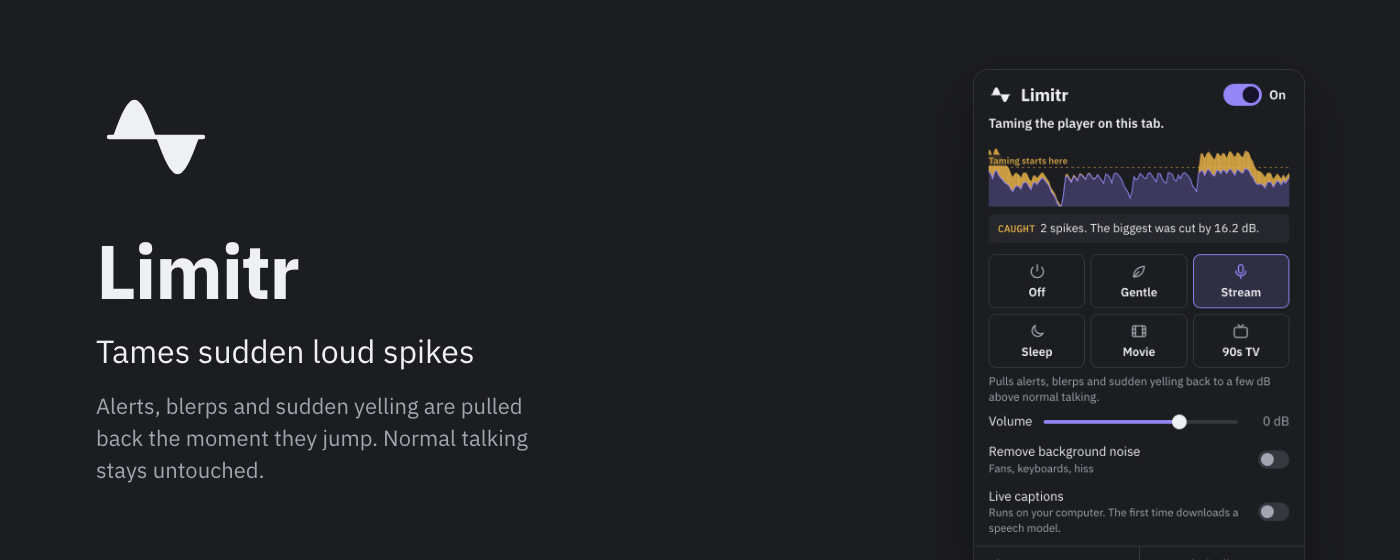
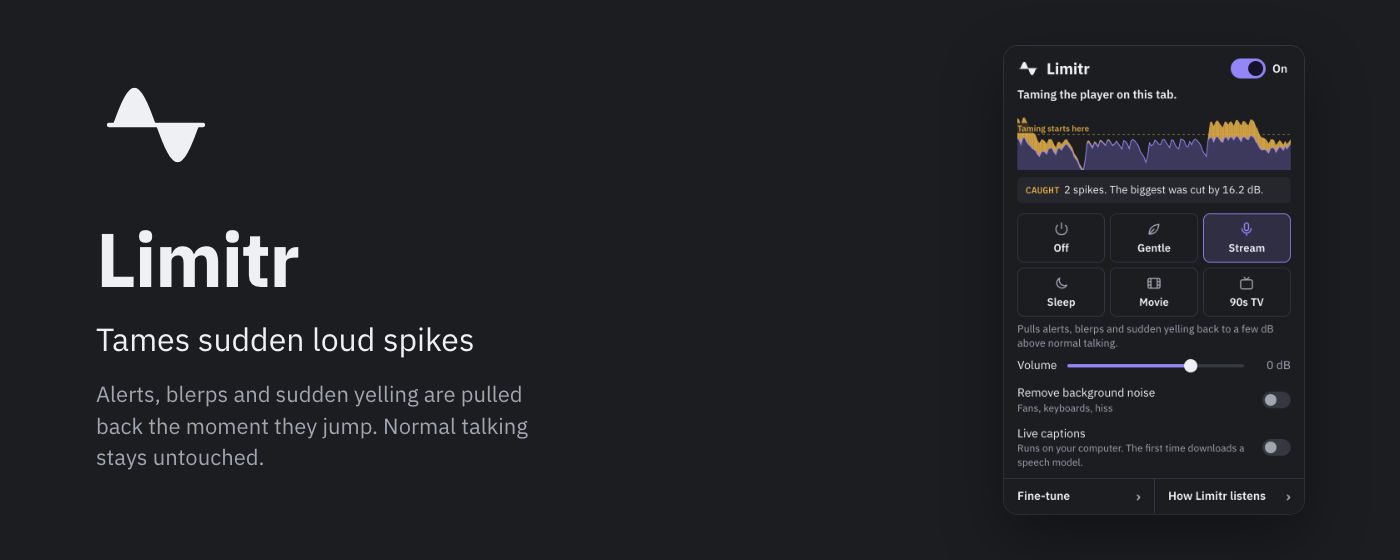
Fixes from the final review
- Saved-preset chips re-fit when the main screen is shown again; a Fine-tune
  change re-rendered them while hidden, losing the "+N" collapse.
- Firefox no longer turns the icon red for unreachable players: without
  Whole-tab capture there is nothing the user can do about them.
- Frames report their first change immediately and send an all-clear on
  pagehide, so an ad iframe removed right after it ends can't leave the tab
  red; back/forward-cached pages re-report on pageshow.
- The captions chip shows what Auto picked ("Auto: Türkçe").
- The store renderer refuses popup images cut off by the artwork's edge;
  the marquee tile now shows the whole popup.

Claude-Session: https://claude.ai/code/session_014gtQrAT2pJGoeVdj8UYkMA

diff --git a/tests/run-extension-tests.js b/tests/run-extension-tests.js
@@ -96,6 +96,17 @@ const sleep = ms => new Promise(resolve => setTimeout(resolve, ms));
       res.end('<!DOCTYPE html><html><body><button id="play">Play</button><audio id="a" src="/stream.wav" loop></audio>' +
         '<script>document.getElementById("play").onclick = () => document.getElementById("a").play();</script></body></html>');
     },
+    '/ad-host.html': (req, res) => {
+      res.writeHead(200, { 'Content-Type': 'text/html' });
+      res.end('<!DOCTYPE html><html><body><iframe id="ad" src="/ad-frame.html" width="300" height="80"></iframe></body></html>');
+    },
+    '/ad-frame.html': (req, res) => {
+      res.writeHead(200, { 'Content-Type': 'text/html' });
+      res.end(`<!DOCTYPE html><html><body><button id="play">Play</button>
+<audio id="remote" src="http://localhost:${port}/tone.wav" loop></audio>
+<script>document.getElementById('play').onclick = () => document.getElementById('remote').play();</script>
+</body></html>`);
+    },
     '/remote-only.html': (req, res) => {
       res.writeHead(200, { 'Content-Type': 'text/html' });
       res.end(`<!DOCTYPE html><html><body><button id="play">Play</button>
@@ -287,6 +298,23 @@ const sleep = ms => new Promise(resolve => setTimeout(resolve, ms));
     check('turning Limitr off: off (gray)', (await iconState(tabId)) === 'off', await iconState(tabId));
     await worker.evaluate(() => chrome.storage.local.set({ limitrEnabled: true }));
     await sleep(800);
+    // An ad in an iframe: plays unreachable audio, then ends and is removed straight away
+    const adTab = await context.newPage();
+    await adTab.goto(`http://127.0.0.1:${port}/ad-host.html`);
+    await sleep(500);
+    const adId = await worker.evaluate(async () => (await chrome.tabs.query({ url: 'http://127.0.0.1/ad-host.html' }))[0].id);
+    await adTab.frameLocator('#ad').locator('#play').click();
+    await sleep(1500);
+    check('unreachable ad playing in an iframe: red', (await iconState(adId)) === 'attention', await iconState(adId));
+    await adTab.evaluate(() => {
+      const frame = document.getElementById('ad');
+      frame.contentWindow.document.getElementById('remote').pause();
+      frame.remove();
+    });
+    await sleep(1000);
+    check('ad iframe removed right after it ends: red clears', (await iconState(adId)) === 'on', await iconState(adId));
+    await adTab.close();
+
     const newTab = await context.newPage();
     await newTab.goto('chrome://newtab/').catch(() => {});
     await sleep(800);
@@ -363,6 +391,19 @@ const sleep = ms => new Promise(resolve => setTimeout(resolve, ms));
     check('saved presets stay on one line', layout.chipOverflow !== null && layout.chipOverflow <= 1, layout.chipOverflow);
     check('extra saved presets collapse into "+N"', layout.more);
     check('no horizontal overflow with long preset names', layout.docWidth <= 360, layout.docWidth);
+    // Changing a setting re-renders the chips while the main screen is hidden; coming back must re-fit them
+    await popup.click('.nav-row[data-open="finetune"]');
+    await popup.evaluate(() => {
+      const slider = document.getElementById('ctl-guardHeadroom');
+      slider.value = 7;
+      slider.dispatchEvent(new Event('input', { bubbles: true }));
+    });
+    await sleep(300);
+    await popup.click('[data-screen="finetune"] .back');
+    await sleep(300);
+    layout = await mainLayout();
+    check('after a Fine-tune change, saved presets still collapse into "+N"', layout.more && layout.chipOverflow <= 1,
+      `more=${layout.more}, overflow=${layout.chipOverflow}`);
     await worker.evaluate(() => chrome.storage.local.remove('limitrUserPresets'));
 
     console.log('\nSecondary screens');
@@ -449,6 +490,11 @@ const sleep = ms => new Promise(resolve => setTimeout(resolve, ms));
     await sleep(300);
     check('the chip opens the captions screen', await visible('[data-screen="captions"]'));
     check('Language and Translate to are on it', (await visible('#captionsLanguage')) && (await visible('#captionsTranslate')));
+    await popup.selectOption('#captionsLanguage', 'auto');
+    await worker.evaluate(id => chrome.runtime.sendMessage({ action: 'transcription-status', tabId: id, status: 'language', language: 'tr' }), tabId);
+    await sleep(300);
+    const chipText = await popup.textContent('#captionsChip');
+    check('Auto shows what it picked on the chip', chipText === 'Auto: T\u00fcrk\u00e7e', chipText);
     await worker.evaluate(id => chrome.runtime.sendMessage({
       action: 'transcription-result', tabId: id,
       result: { text: 'Herkese iyi ak\u015famlar', translation: 'Good evening everyone' }

diff --git a/popup.js b/popup.js
@@ -213,17 +213,26 @@ function renderPresetChips() {
   more.hidden = true;
   more.addEventListener('click', () => openScreen('finetune', 'savedPresets'));
   row.append(more);
+  requestAnimationFrame(fitPresetChips);
+}
 
-  requestAnimationFrame(() => {
-    let hiddenCount = 0;
-    for (let i = chips.length - 1; i >= 0 && row.scrollWidth > row.clientWidth; i--) {
-      chips[i].hidden = true;
-      hiddenCount++;
-      more.hidden = false;
-      more.textContent = `+${hiddenCount}`;
-      more.setAttribute('aria-label', `${hiddenCount} more saved presets`);
-    }
-  });
+// Hides chips from the end until the row fits, behind a "+N" chip. Only measurable while the main
+// screen is shown, so showScreen('main') calls it again.
+function fitPresetChips() {
+  const row = $('presetChips');
+  if (row.hidden || !row.clientWidth) return;
+  const chips = [...row.querySelectorAll('.chip:not(.more)')];
+  const more = row.querySelector('.chip.more');
+  chips.forEach(chip => { chip.hidden = false; });
+  more.hidden = true;
+  let hiddenCount = 0;
+  for (let i = chips.length - 1; i >= 0 && row.scrollWidth > row.clientWidth; i--) {
+    chips[i].hidden = true;
+    hiddenCount++;
+    more.hidden = false;
+    more.textContent = `+${hiddenCount}`;
+    more.setAttribute('aria-label', `${hiddenCount} more saved presets`);
+  }
 }
 
 // Which preset Fine-tune is adjusting, shown in its live strip
@@ -925,7 +934,10 @@ function renderCaptions(note) {
   $('transcript').hidden = state.captions !== 'active';
   const chip = $('captionsChip');
   chip.hidden = !toggle.checked;
-  chip.textContent = LANGUAGE_NAMES[state.captionPrefs.language] || 'Auto';
+  const auto = state.captionPrefs.language === 'auto';
+  chip.textContent = auto
+    ? (state.captionsDetected ? `Auto: ${LANGUAGE_NAMES[state.captionsDetected] || state.captionsDetected}` : 'Auto')
+    : LANGUAGE_NAMES[state.captionPrefs.language] || state.captionPrefs.language;
   chip.setAttribute('aria-label', `Caption settings: ${chip.textContent}`);
   if (note) $('captionsNote').textContent = note;
 }
@@ -952,7 +964,10 @@ function buildCaptionOptions() {
   language.value = state.captionPrefs.language;
   translate.value = targets.some(([c]) => c === state.captionPrefs.translateTo) ? state.captionPrefs.translateTo : '';
 
-  language.addEventListener('change', () => saveCaptionPrefs({ language: language.value }));
+  language.addEventListener('change', () => {
+    saveCaptionPrefs({ language: language.value });
+    renderCaptions();
+  });
   translate.addEventListener('change', () => {
     saveCaptionPrefs({ translateTo: translate.value });
     // The change event carries the click, which a first-time translator download needs
@@ -1027,6 +1042,7 @@ async function refreshCaptions() {
   if (status?.active) state.captions = 'active';
   else if (status?.loading) state.captions = 'loading';
   const detected = status?.session?.language;
+  if (detected) state.captionsDetected = detected;
   renderCaptions(status?.active && detected && state.captionPrefs.language === 'auto'
     ? `Listening in ${LANGUAGE_NAMES[detected] || detected}.`
     : undefined);
@@ -1067,6 +1083,7 @@ chrome.runtime.onMessage.addListener((message) => {
     else if (message.status === 'error') state.captions = 'error';
     else if (message.status === 'stopped') state.captions = 'off';
     if (message.status === 'language') {
+      state.captionsDetected = message.language;
       renderCaptions(`Listening in ${LANGUAGE_NAMES[message.language] || message.language}.`);
     } else if (message.status === 'translation-download') {
       const button = $('translationDownload');
@@ -1109,6 +1126,7 @@ function showScreen(name) {
     drawEqCurve();
     drawTraces();
   }
+  if (name === 'main') fitPresetChips();
   const focusTarget = name === 'main' ? $('power') : current.querySelector('.back');
   if (focusTarget) focusTarget.focus();
 }

diff --git a/tests/run-firefox-tests.js b/tests/run-firefox-tests.js
@@ -85,6 +85,9 @@ const sleep = ms => new Promise(resolve => setTimeout(resolve, ms));
       <audio id="a-en" src="/en.wav" loop></audio><audio id="a-tr" src="/tr.wav" loop></audio>
       <script>for (const l of ['en', 'tr']) document.getElementById(l).onclick = () => {
         document.querySelectorAll('audio').forEach(a => a.pause()); document.getElementById('a-' + l).play(); };</script></body></html>`),
+    '/remote-only.html': html(() => `<!DOCTYPE html><html><body><button id="play">Play</button>
+      <audio id="remote" src="http://localhost:${port}/tone.wav" loop></audio>
+      <script>play.onclick = () => remote.play();</script></body></html>`),
     '/frame.html': html(() => `<!DOCTYPE html><html><body><button id="play">Play</button>
       <audio id="framed" src="/tone.wav" loop></audio>
       <script>play.onclick = () => framed.play();</script></body></html>`)
@@ -116,7 +119,7 @@ const sleep = ms => new Promise(resolve => setTimeout(resolve, ms));
     await sleep(800);
 
     // Extension APIs are reached through the test agent (BiDi can't open moz-extension pages)
-    const ask = query => tab.evaluate(q => new Promise((resolve, reject) => {
+    const askIn = (page, query) => page.evaluate(q => new Promise((resolve, reject) => {
       const id = Math.random().toString(36).slice(2);
       const onReply = (event) => {
         const reply = event.data && event.data.limitrTestReply;
@@ -127,6 +130,7 @@ const sleep = ms => new Promise(resolve => setTimeout(resolve, ms));
       window.addEventListener('message', onReply);
       window.postMessage({ limitrTestQuery: { id, query: q } }, '*');
     }), query);
+    const ask = query => askIn(tab, query);
     const frameStatus = () => ask({ op: 'frame-status' });
     const meters = frameId => ask({ op: 'meters', frameId });
 
@@ -162,6 +166,16 @@ const sleep = ms => new Promise(resolve => setTimeout(resolve, ms));
     await sleep(1000);
     m = await meters(0);
     check('turning it back on resumes processing', m && m.inDb > -60, m && `in ${m.inDb?.toFixed(1)}`);
+
+    console.log('\nToolbar icon');
+    const remoteTab = await browser.newPage();
+    await remoteTab.goto(`http://127.0.0.1:${port}/remote-only.html`);
+    await sleep(800);
+    await remoteTab.click('#play');
+    await sleep(1500);
+    const remoteIcon = await askIn(remoteTab, { op: 'icon-state' });
+    check('unreachable player in Firefox: not red (Whole tab is not available here)', remoteIcon === 'on', remoteIcon);
+    await remoteTab.close();
 
     console.log('\nPopup');
     const popup = await ask({ op: 'popup' });

diff --git a/content-bridge.js b/content-bridge.js
@@ -50,25 +50,51 @@
     });
   }
 
-  // Tells the background what this frame is doing so it can colour the toolbar icon.
-  // Sent whenever it changes (including back to zero), at most every 250 ms.
+  // Tells the background what this frame is doing so it can colour the toolbar icon. A change is
+  // sent straight away; further changes within 250 ms are coalesced into one trailing report.
+  let lastSentAt = 0;
+
+  function sendReport(report) {
+    const key = JSON.stringify(report);
+    if (key === lastReported) return;
+    lastReported = key;
+    lastSentAt = Date.now();
+    api.runtime.sendMessage({ action: 'limitr-status', ...report }).catch(() => {});
+  }
+
+  function currentReport() {
+    const status = globalThis.__limitrBridgeStatus;
+    return {
+      attached: status.attached || 0,
+      waitingForGesture: status.waitingForGesture || 0,
+      playingSkipped: status.playingSkipped || 0,
+      enabled: current.enabled
+    };
+  }
+
   function reportStatusToBackground() {
     if (reportTimer) return;
+    const wait = 250 - (Date.now() - lastSentAt);
+    if (wait <= 0) {
+      sendReport(currentReport());
+      return;
+    }
     reportTimer = setTimeout(() => {
       reportTimer = null;
-      const status = globalThis.__limitrBridgeStatus;
-      const report = {
-        attached: status.attached || 0,
-        waitingForGesture: status.waitingForGesture || 0,
-        playingSkipped: status.playingSkipped || 0,
-        enabled: current.enabled
-      };
-      const key = JSON.stringify(report);
-      if (key === lastReported) return;
-      lastReported = key;
-      api.runtime.sendMessage({ action: 'limitr-status', ...report }).catch(() => {});
-    }, 250);
+      sendReport(currentReport());
+    }, wait);
   }
+
+  // A frame that goes away (an ad iframe removed, a navigation) stops counting immediately
+  window.addEventListener('pagehide', () => {
+    clearTimeout(reportTimer);
+    reportTimer = null;
+    if (lastReported) sendReport({ attached: 0, waitingForGesture: 0, playingSkipped: 0, enabled: current.enabled });
+  });
+  // Back/forward cache: the same page comes back with its players, so report them again
+  window.addEventListener('pageshow', (event) => {
+    if (event.persisted) reportStatusToBackground();
+  });
 
   async function loadState() {
     try {

diff --git a/tools/store-art/render.js b/tools/store-art/render.js
@@ -55,6 +55,12 @@ async function main() {
     await page.evaluate(markup => document.body.insertAdjacentHTML('afterbegin', markup), symbol);
     await page.evaluate(() => document.fonts.ready);
     await page.waitForFunction(() => [...document.images].every(img => img.complete));
+    // A popup cut off by the artwork's edge reads as a mistake, so never ship one
+    const clipped = await page.evaluate(() => [...document.querySelectorAll('.popup')].some(img => {
+      const box = img.getBoundingClientRect();
+      return box.top < 0 || box.left < 0 || box.bottom > innerHeight || box.right > innerWidth;
+    }));
+    if (clipped) throw new Error(`${file}: the popup image runs past the edge of the artwork`);
     await page.screenshot({ path: path.join(OUT, file) });
     console.log(`  ${file}`);
   };

diff --git a/background.js b/background.js
@@ -49,7 +49,9 @@ function iconStateFor(tabId) {
   if (!globalEnabled) return 'off';
   const frames = [...(tabFrames.get(tabId) || new Map()).values()];
   if (capturedTabs.has(tabId) || frames.some(f => f.attached > 0)) return 'working';
-  if (captureFailures.has(tabId) || frames.some(f => f.waitingForGesture > 0 || f.playingSkipped > 0)) return 'attention';
+  // An unreachable player only needs the user where Whole-tab capture exists to fix it
+  const unreachable = captureSupported() && frames.some(f => f.playingSkipped > 0);
+  if (captureFailures.has(tabId) || unreachable || frames.some(f => f.waitingForGesture > 0)) return 'attention';
   return 'on';
 }
 

diff --git a/tests/firefox-test-hook.js b/tests/firefox-test-hook.js
@@ -61,6 +61,9 @@ browser.runtime.onMessage.addListener((message, sender) => {
         if (backgroundTranscriber) out.session = (await backgroundTranscriber).sessionInfo(tabId);
         return out;
       })();
+    case 'icon-state':
+      // Same background page as background.js, so its icon bookkeeping is in scope
+      return Promise.resolve(tabIconStates.get(tabId) || null);
     case 'storage-set':
       return browser.storage.local.set(query.values).then(() => true);
     case 'popup':

diff --git a/tools/store-art/templates/tile-marquee.html b/tools/store-art/templates/tile-marquee.html
@@ -9,7 +9,7 @@
     .name { font-size: 76px; }
     .line { margin-top: 10px; font-size: 32px; color: var(--text); }
     .more { margin-top: 18px; max-width: 34ch; font-size: 22px; line-height: 1.45; color: var(--muted); }
-    .popup { width: 330px; margin-top: 70px; }
+    .popup { width: 300px; }
   </style>
 </head>
 <body>
